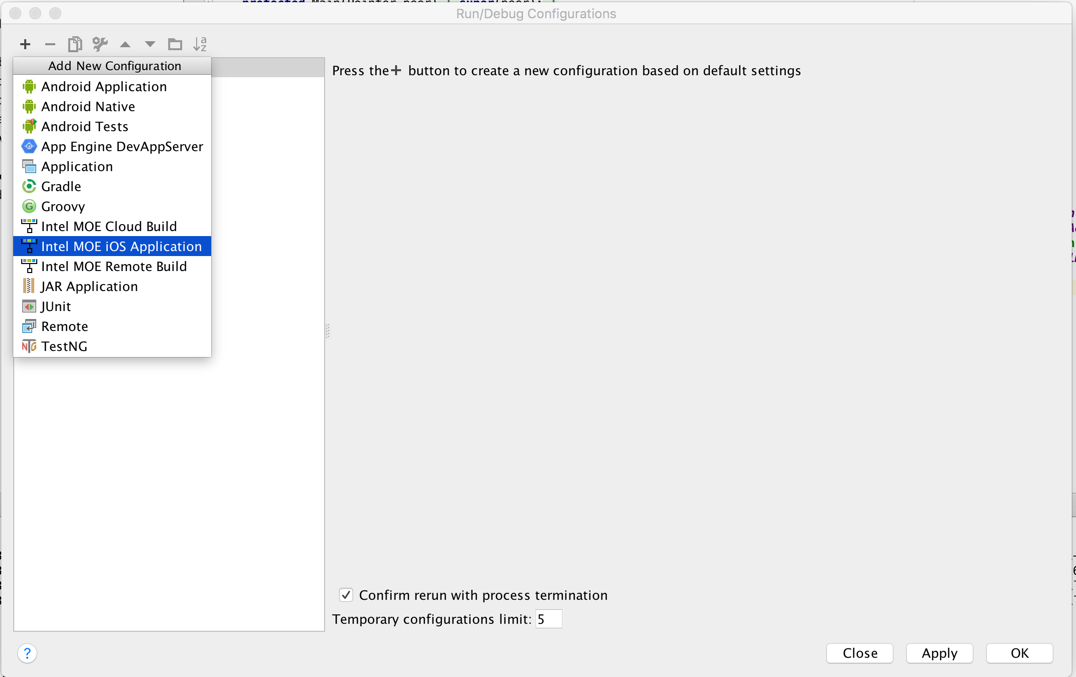
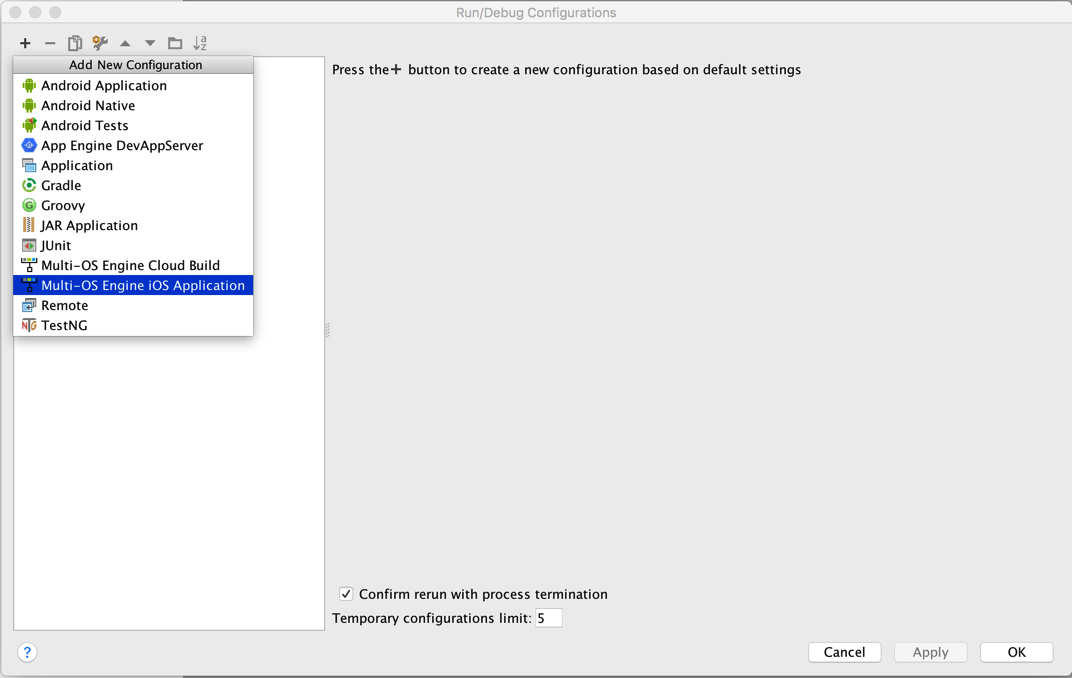
- updated README.md file - updated ios/build.gradle

diff --git a/README.md b/README.md
@@ -1,9 +1,9 @@
 # bit6-moe-samples
 
-1. Install [Multi-OS Engine](https://software.intel.com/en-us/multi-os-engine) v1.0.598
+1. Install [Multi-OS Engine](https://software.intel.com/en-us/multi-os-engine) v1.0.648
 2. In Android Studio choose the option "import project (Eclipse ADT, Graddle, etc.) to import the sample project.
 
-3. Select "Edit Configurations" in the Run menu in Android Studio. Add a new "Intel MOE iOS Application" configuration to run on a Device.
+3. Select "Edit Configurations" in the Run menu in Android Studio. Add a new "Multi-OS Engine iOS Application" configuration to run on a Device.
 	
 	![](img/configuration1.png)
 	
@@ -17,17 +17,23 @@
 
 	`Bit6.startWithApiKey("");`
 	
-6. Connect your iOS device and Run the project
+6. Open the file /ios/build.gradle and set `signingIdentity`, `provisioningProfile` and `bundleID` (bundle identifier) to match your Apple account.
+	
+7. Run the project
+
+8. Open the Xcode project in /ios/build/xcode/ChatDemo.xcodeproj 
+
+9. Check the background modes in your target.
+
+![](img/background_modes.png)
+
+10. Connect your iOS device and run it using Xcode.
 
 ####Enable the Push Notification
 
-1. In Android Studio, do right clic on the Android side panel, select MOE Actions -> Open project in Xcode.
+1. Generate the APNS Certificates for the bundle identifier you set in step8. https://developer.apple.com/account/. Install these certificates in your Mac.
 
-2. In Xcode change the bundle identifier of the application to match your apple account.
-
-3. Generate the APNS Certificates for the bundle identifier you set in step8. https://developer.apple.com/account/. Install these certificates in your Mac.
-
-4. Open the Keychain app in Mac and export the APNS Certificates as .p12 files. Upload these two .p12 files to [Bit6 Dashboard](https://dashboard.bit6.com).
+2. Open the Keychain app in Mac and export the APNS Certificates as .p12 files. Upload these two .p12 files to [Bit6 Dashboard](https://dashboard.bit6.com).
 
 ####Try the Sample Project
 
